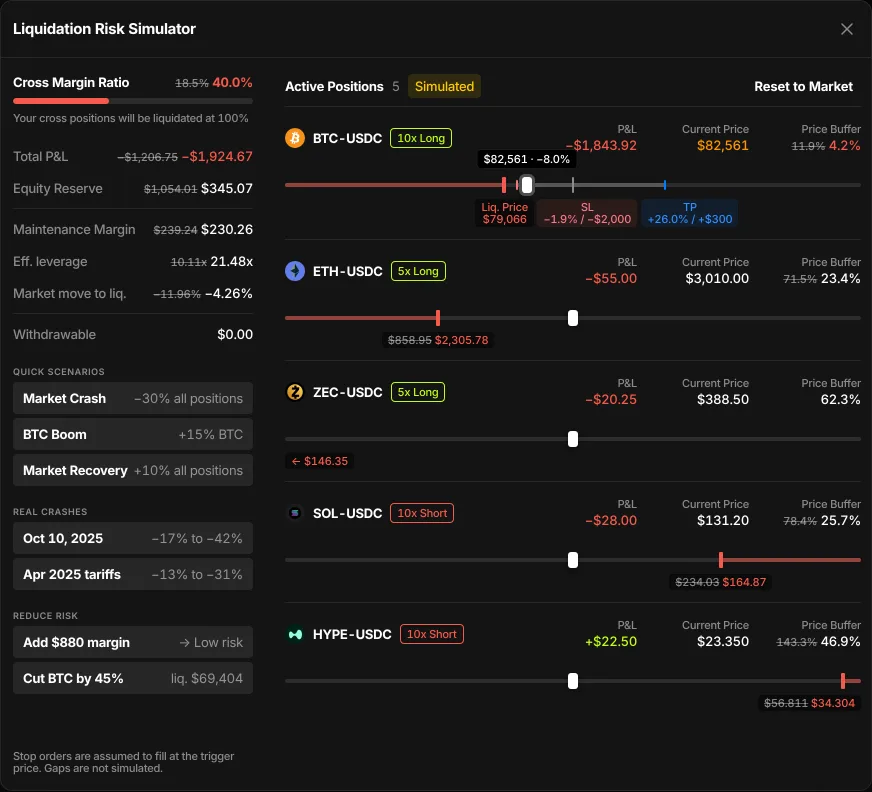
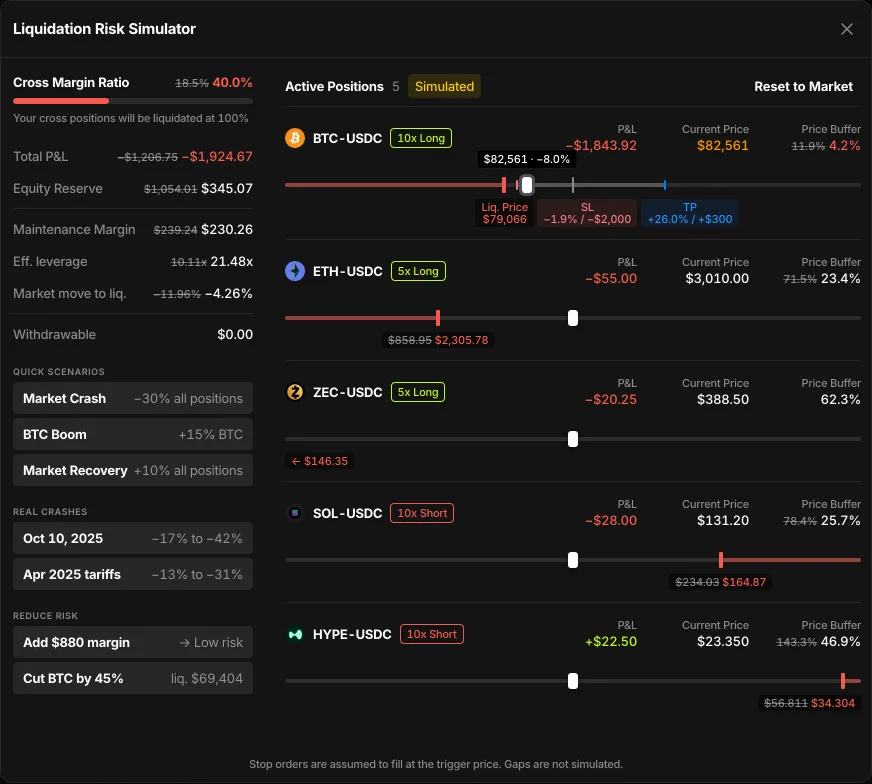
Simulator: centered stop-order note in a window footer

diff --git a/work/brighty.html b/work/brighty.html
@@ -111,10 +111,10 @@
           <div class="case-figure-frame case-carousel-frame">
             <div class="case-carousel-stage">
               <div class="case-carousel-slide case-carousel-slide--bare" role="group" aria-roledescription="slide" aria-label="1 of 3" data-caption="BTC drops 8%. ETH hasn’t moved, yet its liquidation price goes from $859 to $2,306 and its buffer shrinks from 71.5% to 23.4%">
-                <img src="images/brighty/risk-simulator-btc-drop-1744.webp" srcset="images/brighty/risk-simulator-btc-drop-872.webp 872w, images/brighty/risk-simulator-btc-drop-1744.webp 1744w" sizes="(max-width: 640px) 90vw, 1000px" width="1744" height="1584" alt="Liquidation Risk Simulator with BTC dragged to $82,561, down 8%: the cross margin ratio rises to 40%, ETH’s liquidation price moves to $2,305.78 with a 23.4% buffer, ZEC gets a liquidation price of $146.35, and the SOL short’s moves to $164.87" loading="lazy" decoding="async">
+                <img src="images/brighty/risk-simulator-btc-drop-1744.webp" srcset="images/brighty/risk-simulator-btc-drop-872.webp 872w, images/brighty/risk-simulator-btc-drop-1744.webp 1744w" sizes="(max-width: 640px) 90vw, 1000px" width="1744" height="1568" alt="Liquidation Risk Simulator with BTC dragged to $82,561, down 8%: the cross margin ratio rises to 40%, ETH’s liquidation price moves to $2,305.78 with a 23.4% buffer, ZEC gets a liquidation price of $146.35, and the SOL short’s moves to $164.87" loading="lazy" decoding="async">
               </div>
               <div class="case-carousel-slide case-carousel-slide--bare" role="group" aria-roledescription="slide" aria-label="2 of 3" data-caption="SOL up 15% pulls BTC’s liquidation price above its stop loss. The stop won’t fire before liquidation, and the simulator says so">
-                <img src="images/brighty/risk-simulator-sl-warning-1744.webp" srcset="images/brighty/risk-simulator-sl-warning-872.webp 872w, images/brighty/risk-simulator-sl-warning-1744.webp 1744w" sizes="(max-width: 640px) 90vw, 1000px" width="1744" height="1584" alt="Liquidation Risk Simulator with SOL dragged up 15% to $150.88: BTC’s liquidation price, $81,109, now comes before its stop loss, and the BTC row warns that the stop won’t trigger" loading="lazy" decoding="async">
+                <img src="images/brighty/risk-simulator-sl-warning-1744.webp" srcset="images/brighty/risk-simulator-sl-warning-872.webp 872w, images/brighty/risk-simulator-sl-warning-1744.webp 1744w" sizes="(max-width: 640px) 90vw, 1000px" width="1744" height="1568" alt="Liquidation Risk Simulator with SOL dragged up 15% to $150.88: BTC’s liquidation price, $81,109, now comes before its stop loss, and the BTC row warns that the stop won’t trigger" loading="lazy" decoding="async">
               </div>
               <div class="case-carousel-slide case-carousel-slide--bare" role="group" aria-roledescription="slide" aria-label="3 of 3" data-caption="The liquidation risk popover in the terminal, one of the two ways into the simulator">
                 <img src="images/brighty/liquidation-risk-popover-1000.webp" srcset="images/brighty/liquidation-risk-popover-500.webp 500w, images/brighty/liquidation-risk-popover-1000.webp 1000w" sizes="(max-width: 640px) 90vw, 1000px" width="1000" height="572" alt="Liquidation Risk popover in the terminal: risk level Medium, five positions with liquidation prices and price buffers, and an Open Simulator button" loading="lazy" decoding="async">

diff --git a/risk-sim.js b/risk-sim.js
@@ -334,8 +334,7 @@
                 '<b>' + f.name + '</b><span>' + f.effect + '</span></button>';
             }).join('')
           : '<p class="sim-fixes-empty t11">Risk is low. Nothing to fix at these prices.</p>') +
-      '</div>' +
-      '<p class="sim-footnote t11">Stop orders are assumed to fill at the trigger price. Gaps are not simulated.</p>';
+      '</div>';
 
     var positions =
       '<div class="sim-pos-head"><b>Active Positions</b><span class="sim-count">' + POSITIONS.length + '</span>' +
@@ -381,7 +380,9 @@
   root.innerHTML =
     '<div class="sim-head"><p class="sim-title">Liquidation Risk Simulator</p>' +
       '<span class="sim-close" aria-hidden="true"><img src="' + ICONS + 'close.svg" alt="" width="20" height="20"></span></div>' +
-    '<div class="sim-body"><div class="sim-account"></div><div class="sim-positions"></div></div>';
+    '<div class="sim-body"><div class="sim-account"></div><div class="sim-positions"></div></div>' +
+    // Window footer: a fixed note that never changes with the prices
+    '<div class="sim-foot"><p class="sim-footnote t11">Stop orders are assumed to fill at the trigger price. Gaps are not simulated.</p></div>';
   var accountEl = root.querySelector('.sim-account');
   var positionsEl = root.querySelector('.sim-positions');
 

diff --git a/risk-sim.css b/risk-sim.css
@@ -295,6 +295,12 @@
   color: var(--red);
 }
 
+/* ---------- Footer ---------- */
+.sim-foot {
+  padding: 12px;
+  text-align: center;
+}
+
 .sim-footnote {
   color: var(--w50); /* --w25 was 2.24:1, below WCAG AA */
 }
